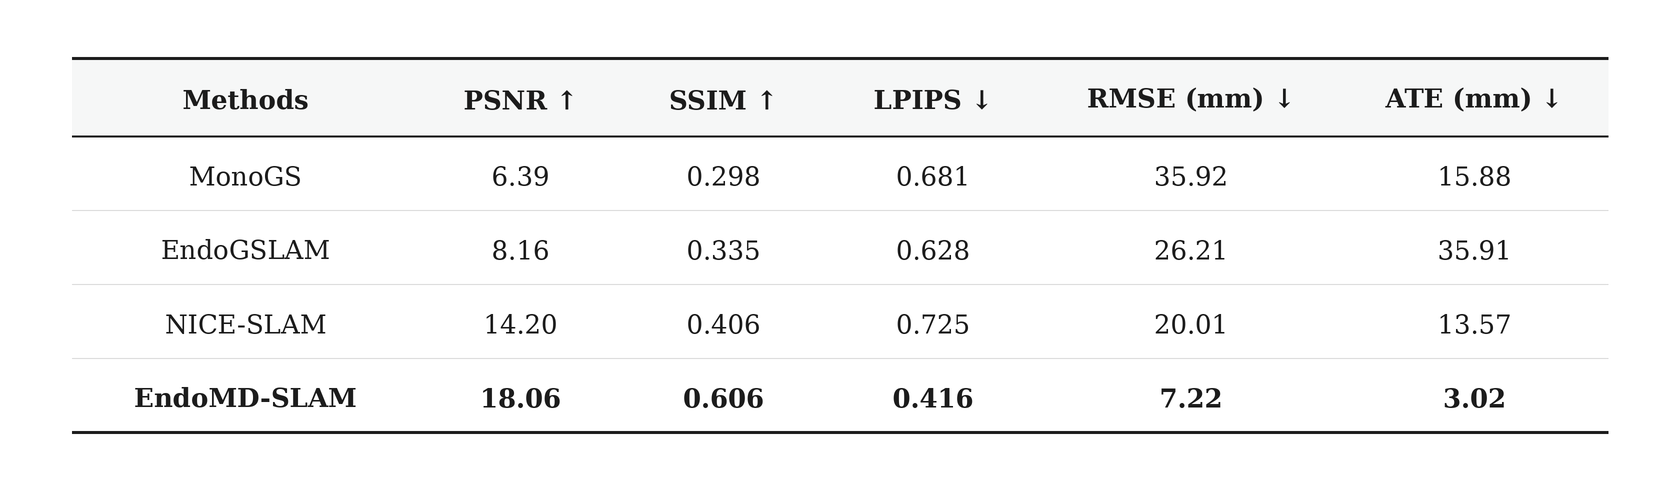
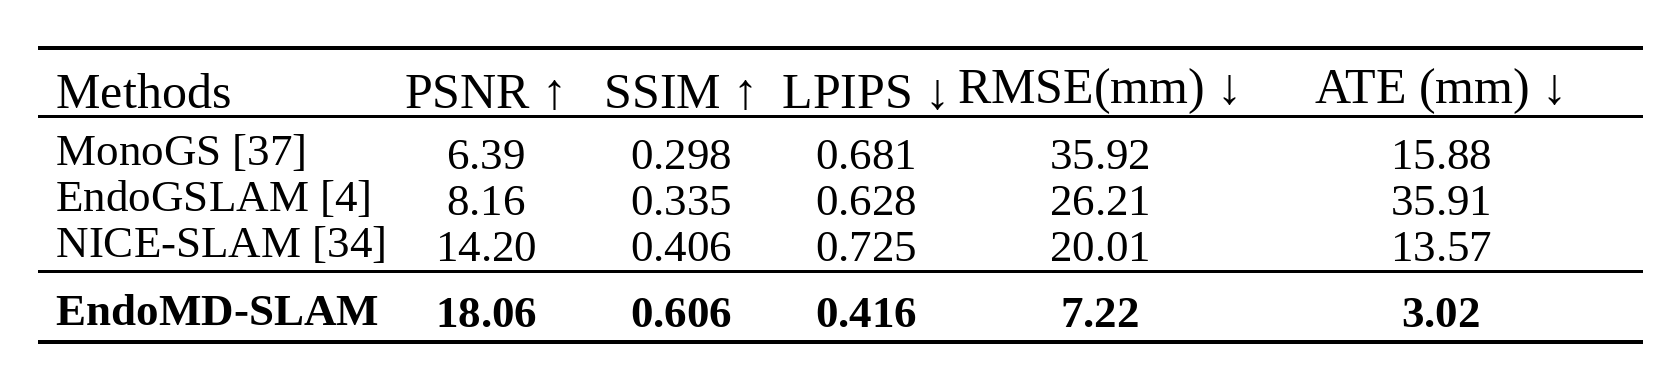
Update code link and results tables

diff --git a/index.html b/index.html
@@ -63,7 +63,7 @@
             <i data-lucide="file-text" aria-hidden="true"></i>
             <span>Paper</span>
           </a>
-          <a class="action-button" href="https://github.com/EndoMD-SLAM" target="_blank" rel="noopener noreferrer">
+          <a class="action-button" href="https://github.com/phai-lab/EndoMD-SLAM" target="_blank" rel="noopener noreferrer">
             <i data-lucide="github" aria-hidden="true"></i>
             <span>Code</span>
           </a>
@@ -167,13 +167,6 @@
           <img class="paper-table-image" src="static/images/table_ablation.png" alt="Table 2 quantitative ablation of the proposed components">
           <figcaption>
             <strong>Table 2.</strong> Quantitative ablation of our proposed components. Both the temporal memory and spatial decomposition modules are critical for maximizing tracking robustness and rendering fidelity. Best results are highlighted in bold.
-          </figcaption>
-        </figure>
-
-        <figure class="paper-table-figure">
-          <img class="paper-table-image" src="static/images/table_runtime.png" alt="Table 3 runtime efficiency">
-          <figcaption>
-            <strong>Table 3.</strong> Runtime efficiency. Evaluated on an NVIDIA RTX A6000 server at identical input resolutions. By explicitly gating map updates and preventing the generation of redundant transient geometry, EndoMD-SLAM achieves the highest overall throughput and fastest mapping speed. Best results are highlighted in bold.
           </figcaption>
         </figure>
       </div>